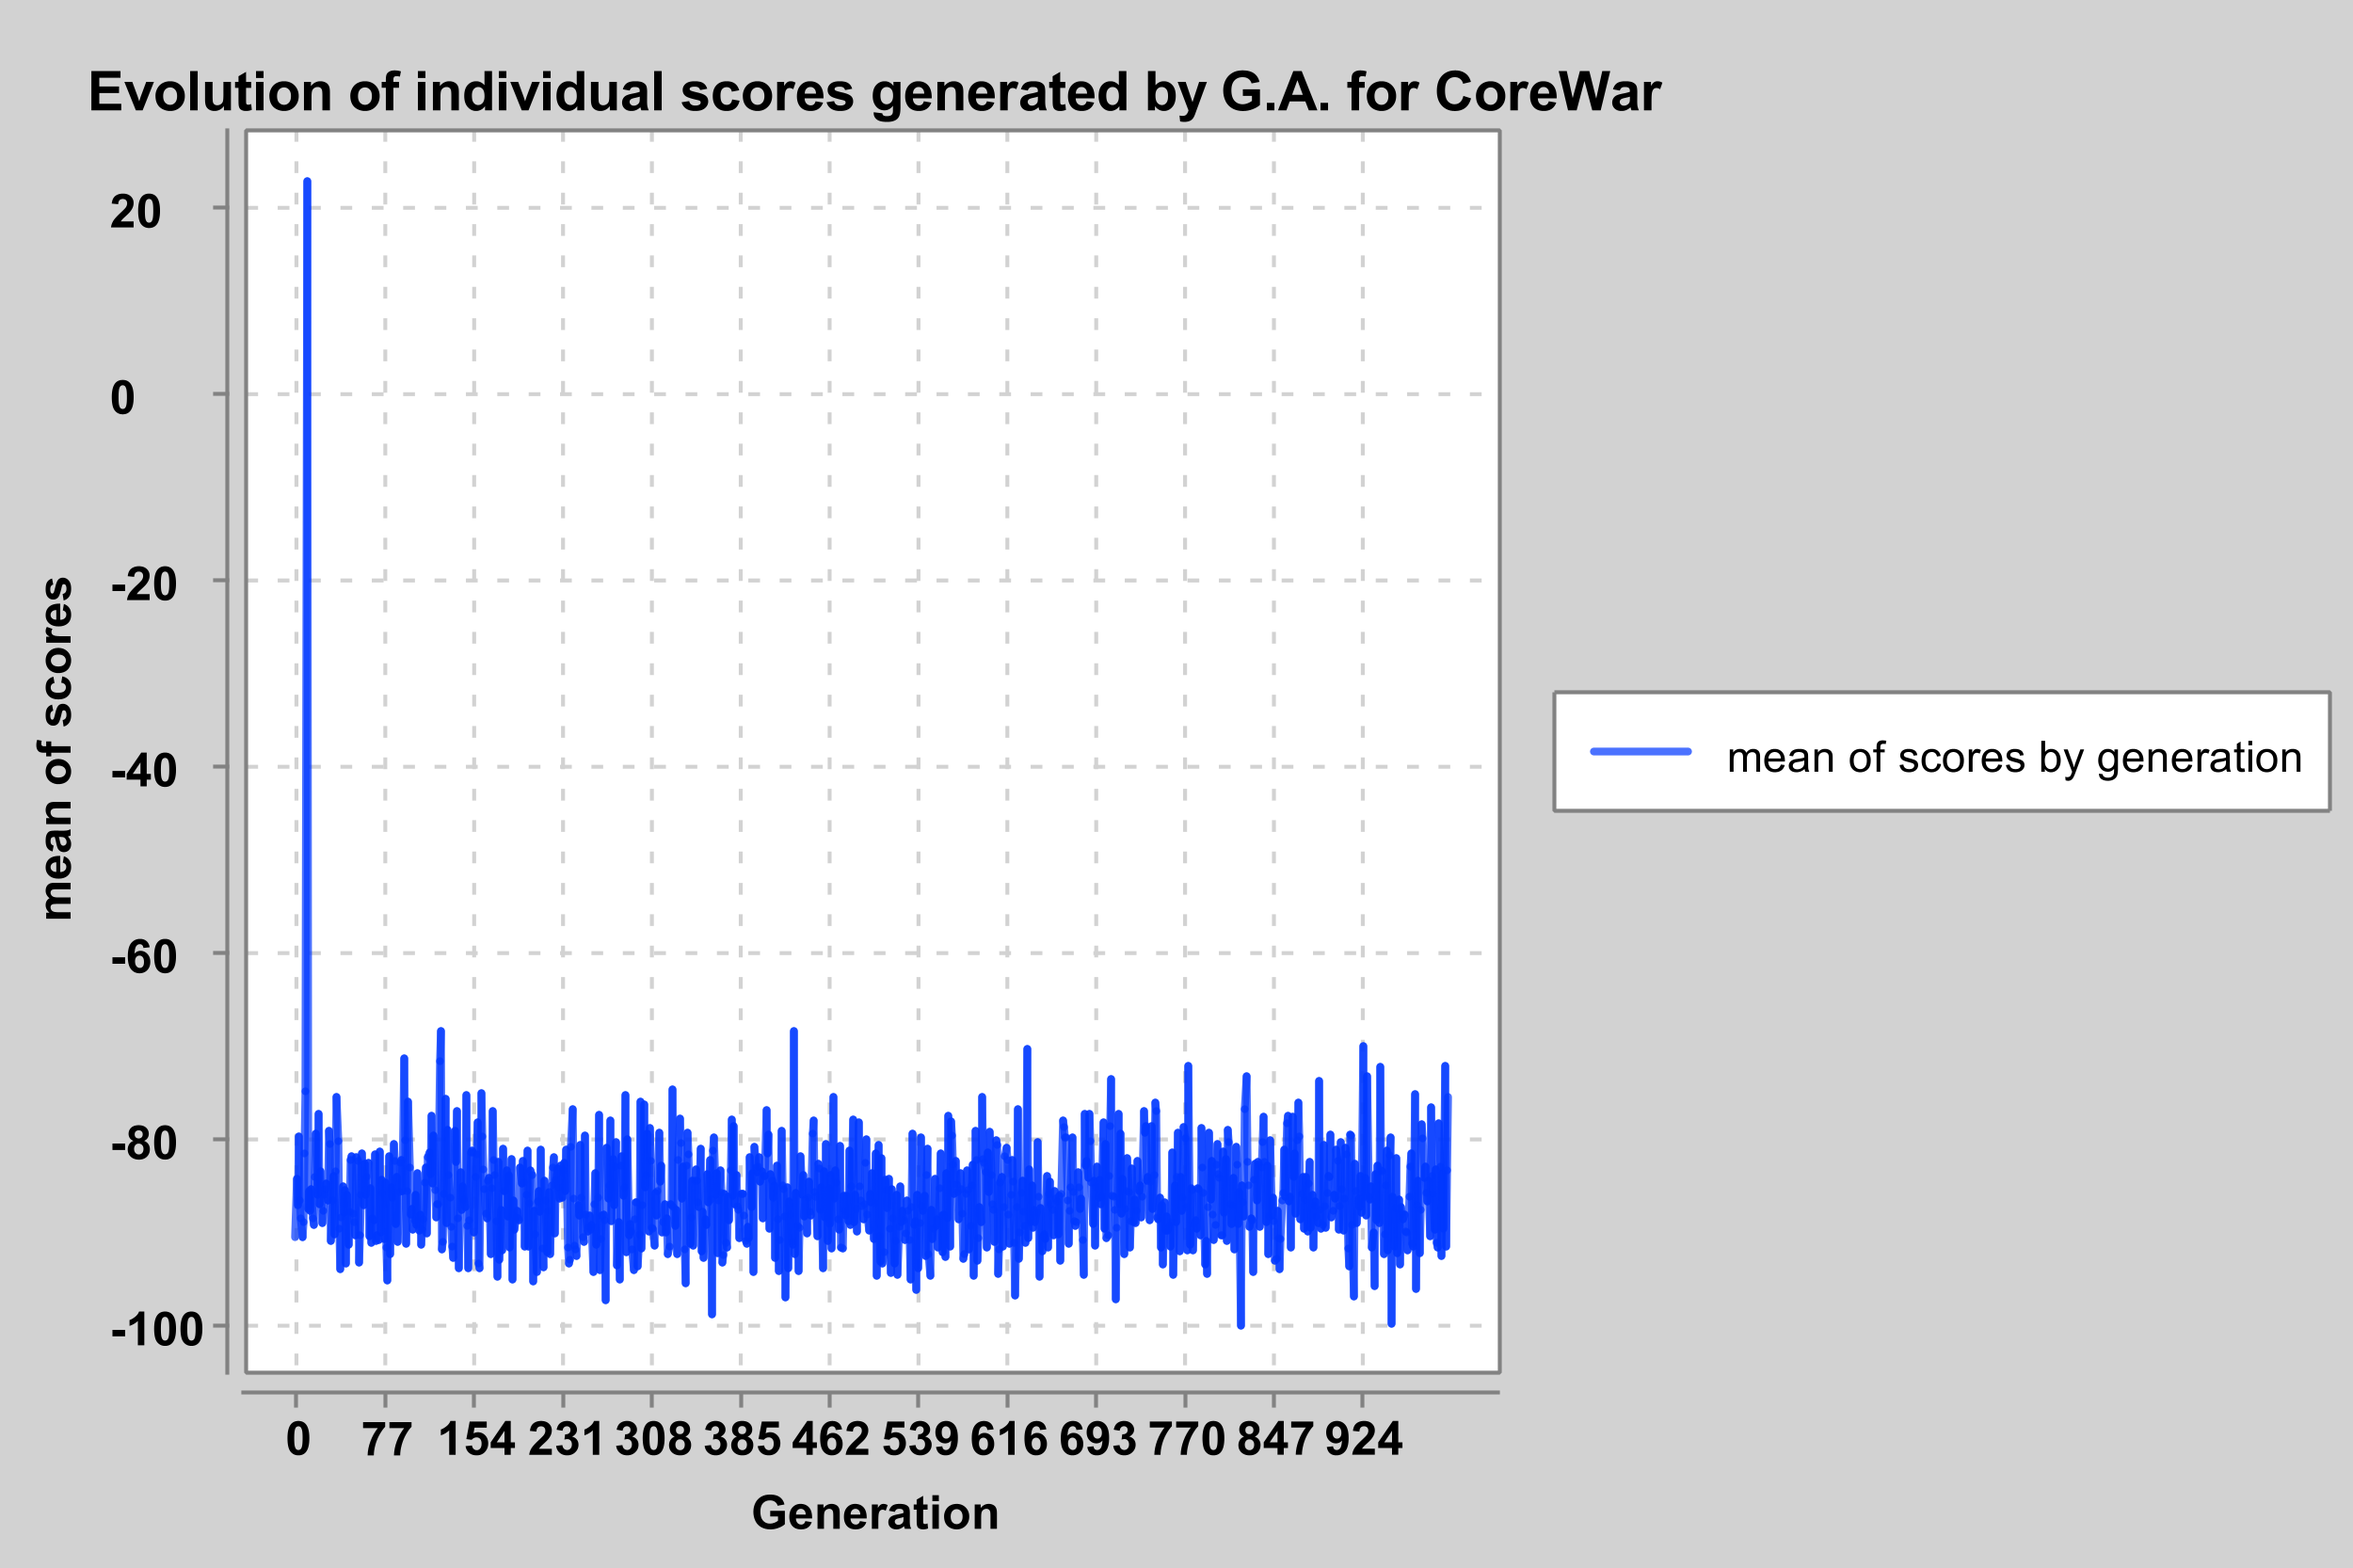
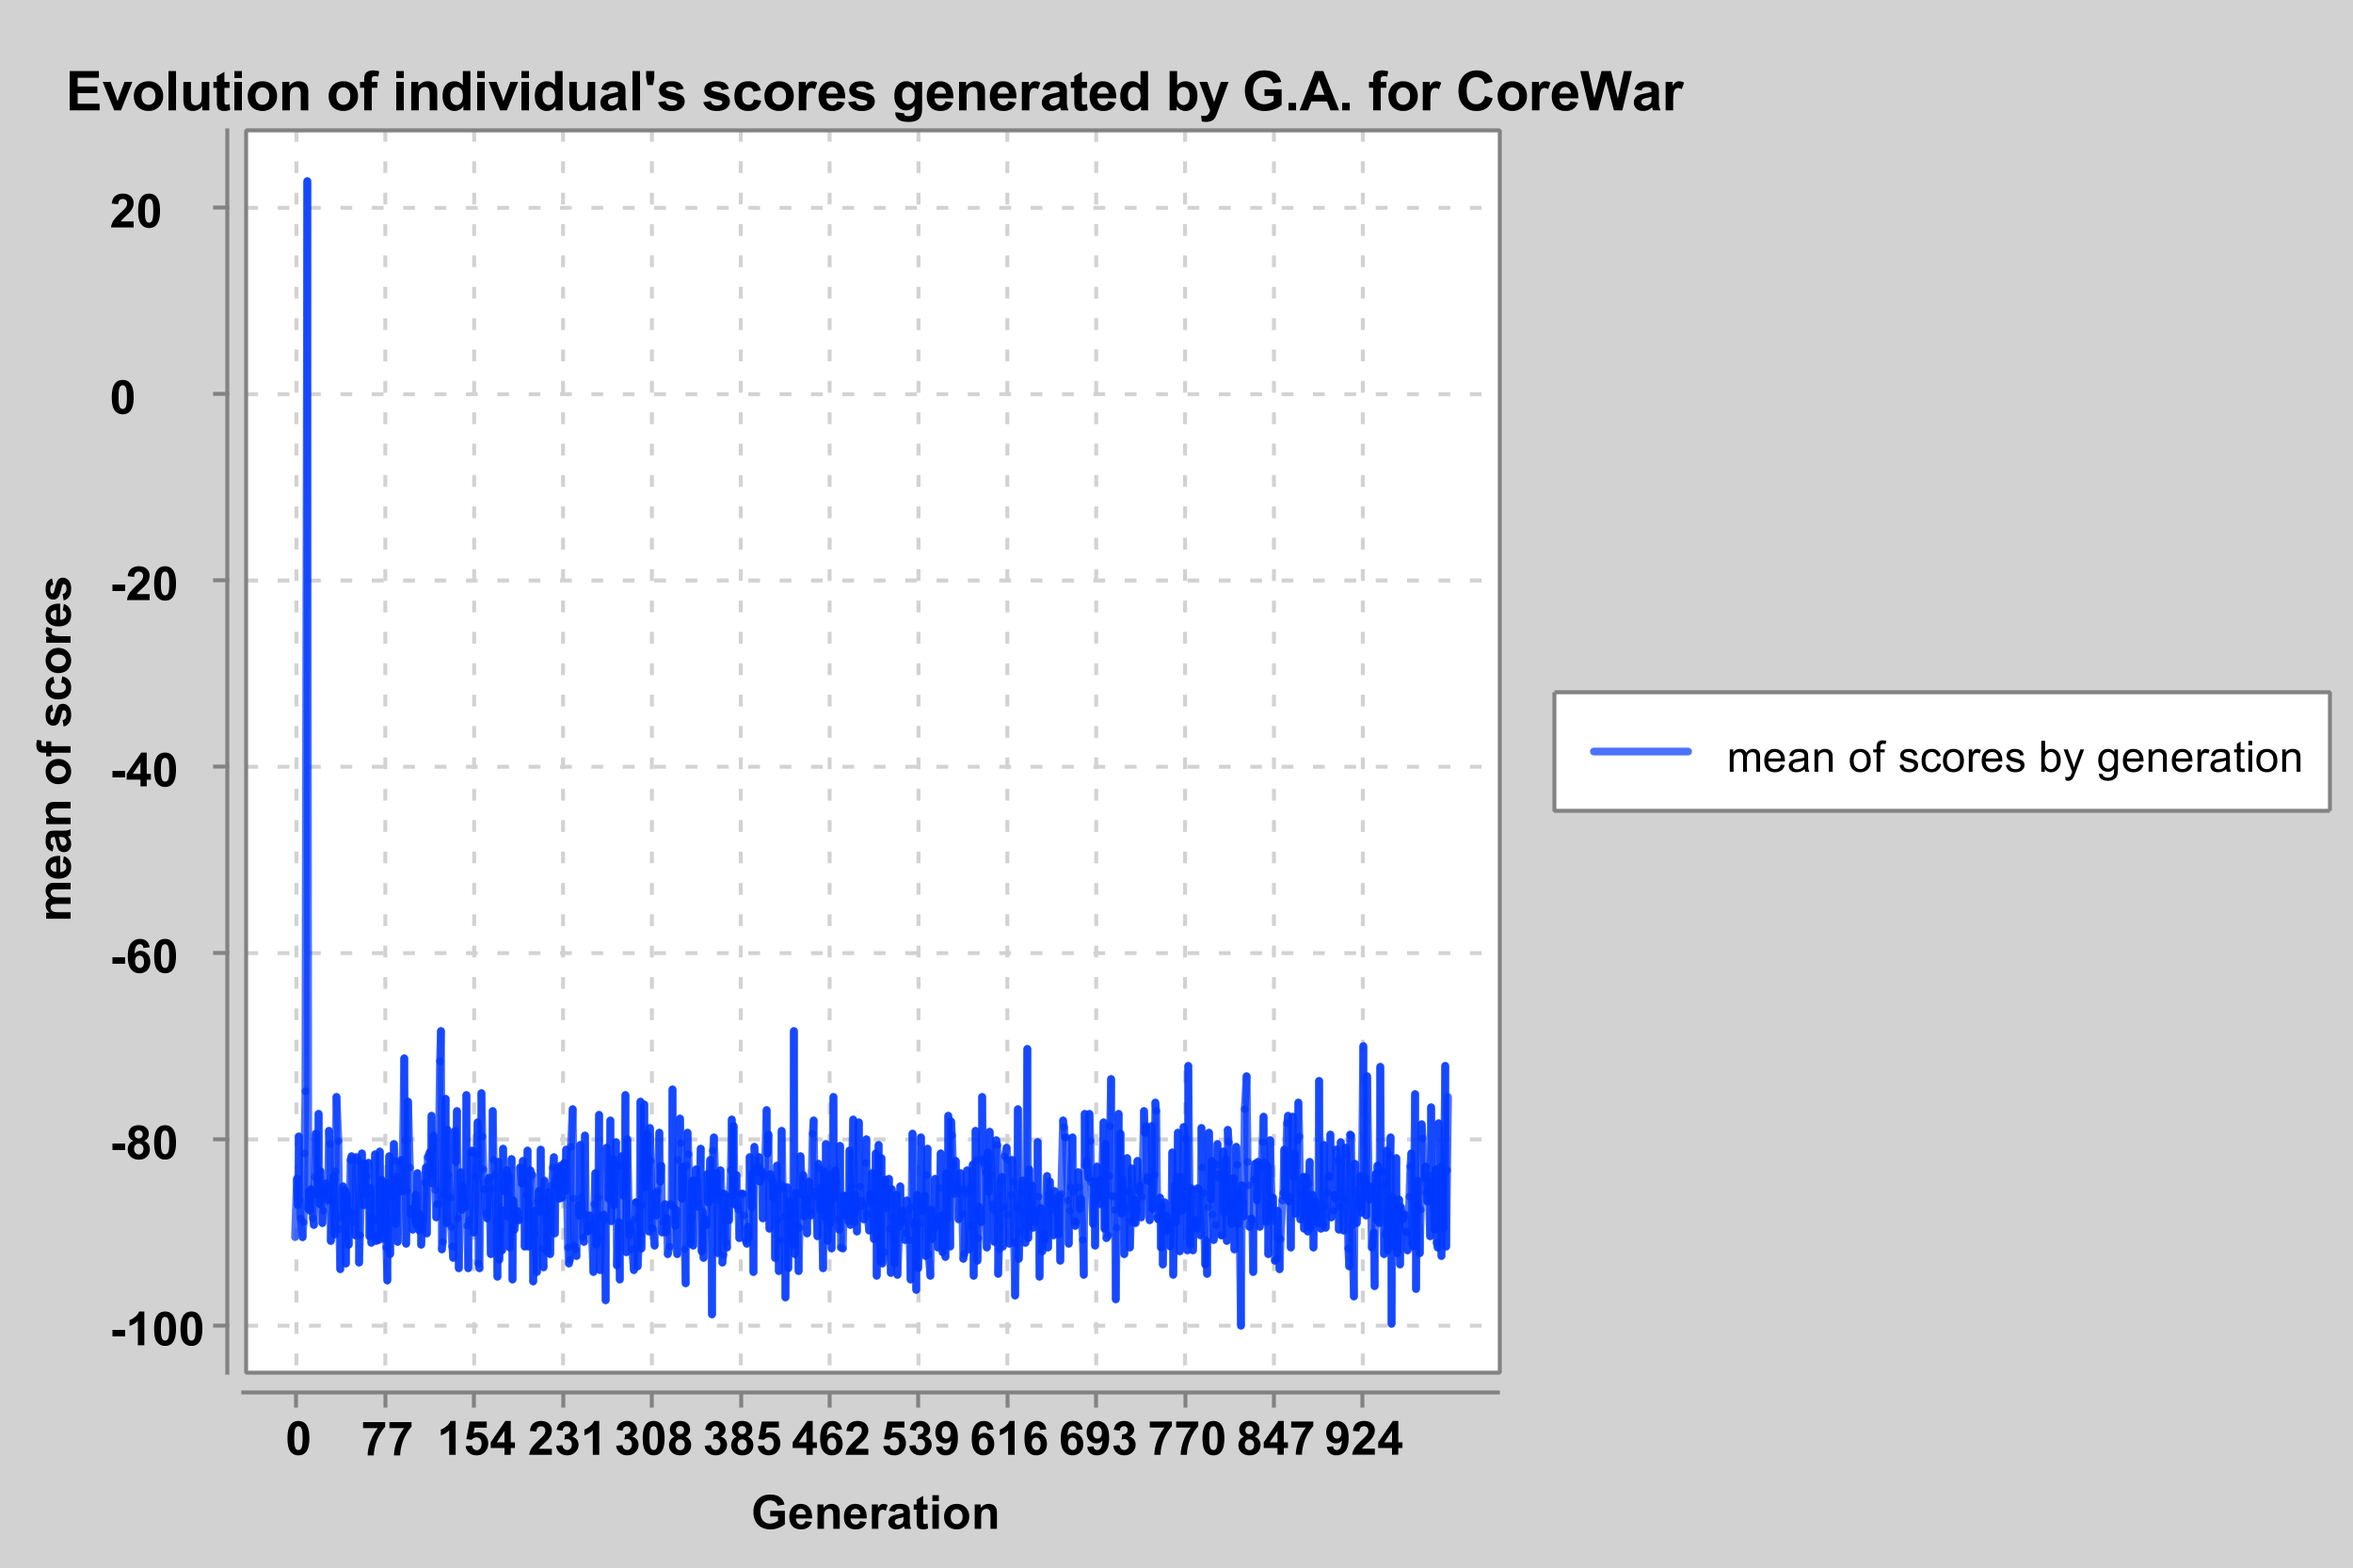
Change Scoring (when loopProtection proc)

Changed region(s): [[0.0312, 0.0312, 0.7176, 0.0936]]

diff --git a/src/coreWar/graph/GraphVisualisation.java b/src/coreWar/graph/GraphVisualisation.java
@@ -15,6 +15,7 @@ import coreWar.trainingManager.TrainingImporter;
 public class GraphVisualisation {
     public static void main(String[] args) throws IOException {
         List<List<Integer>> scores = TrainingImporter.importScores();
+        System.out.println(scores.get(0));
         List<Integer> xData = new ArrayList<Integer>();
         List<Double> yData = new ArrayList<Double>();
         for (int i = 0; i < scores.size(); i++) {
@@ -24,7 +25,7 @@ public class GraphVisualisation {
         System.out.println(scores.size());
 
         // Create Chart
-        XYChart chart = QuickChart.getChart("Evolution of individual scores generated by G.A. for CoreWar", "Generation", "mean of scores", "mean of scores by generation",xData, yData);
+        XYChart chart = QuickChart.getChart("Evolution of individual's scores generated by G.A. for CoreWar", "Generation", "mean of scores", "mean of scores by generation",xData, yData);
 
         // Show it
         //new SwingWrapper(chart).displayChart();
@@ -32,6 +33,20 @@ public class GraphVisualisation {
         // Save it
         BitmapEncoder.saveBitmapWithDPI(chart, String.format("./graphOfScoreFor%dGen", scores.size()), BitmapFormat.PNG, 300);
 
+
+        List<Double> yData2 = new ArrayList<Double>();
+        for (int i = 0; i < scores.size(); i++) {
+            yData2.add(Double.valueOf(calculateMax(scores.get(i))));
+        }
+
+        // Create Chart
+        XYChart chart2 = QuickChart.getChart("Evolution of the winner's scores generated by G.A. for CoreWar", "Generation", "winner of scores", "winner scores by generation",xData, yData2);
+
+        // Show it
+        //new SwingWrapper(chart2).displayChart();
+
+        // Save it
+        BitmapEncoder.saveBitmapWithDPI(chart2, String.format("./graphOfWinnerScoreFor%dGen", scores.size()), BitmapFormat.PNG, 300);
     }
 
     public static Double calculateAverage(List<Integer> numbers) {
@@ -40,6 +55,15 @@ public class GraphVisualisation {
             sum += number;
         }
         return sum / numbers.size();
+    }
+
+    public static Integer calculateMax(List<Integer> numbers) {
+        Integer max = numbers.get(0);
+        for (Integer number : numbers) {
+            if (max < number)
+            max = number;
+        }
+        return max;
     }
 
 }

diff --git a/src/coreWar/trainingManager/TrainingManager.java b/src/coreWar/trainingManager/TrainingManager.java
@@ -71,14 +71,14 @@ public class TrainingManager {
                 Seed seed2 = seedList.get(virtualMachine.uuid[1]);
                 switch (virtualMachine.getMVP()) {
                     case 1:
-                        if (virtualMachine.tick < minTick) {
+                        if (virtualMachine.tick < minTick || virtualMachine.loopProtectioEnabled) {
                             this.population.addPoint(seed2, -1);
                         } else
                             this.population.addPoint(seed1, 1);
                         break;
                     case 2:
-                        if (virtualMachine.tick < minTick) {
-                            this.population.addPoint(seed2, -1);
+                        if (virtualMachine.tick < minTick || virtualMachine.loopProtectioEnabled) {
+                            this.population.addPoint(seed1, -1);
                         } else
                             this.population.addPoint(seed2, 1);
                         break;
@@ -87,7 +87,7 @@ public class TrainingManager {
                 }
             }
             this.trainingScores.add(new ArrayList<Integer>(this.population.values()));
-            System.out.println("Saving");
+            System.out.println("Saving...");
             this.exportPopulation();
             this.population = new Population(this.individualCount);
         }

diff --git a/src/coreWar/vmcore/virtualMachine/ThreadVm.java b/src/coreWar/vmcore/virtualMachine/ThreadVm.java
@@ -27,7 +27,8 @@ public class ThreadVm extends Thread {
             try {
                 interpretor.ApplyInstruction(nextInst,this.vm);
             } catch (LoopException e) {
-                this.vm.winner = 0;  
+                this.vm.winner = nextInst.getOwner()==1?2:1;
+                this.vm.loopProtectioEnabled = true;
                 break;
             } catch (Exception e) {
                 System.err.println("Error while executing program " + nextInst.getOwner() + " (" + nextInst.toStringDebug() + ")");

diff --git a/src/coreWar/vmcore/virtualMachine/Vm.java b/src/coreWar/vmcore/virtualMachine/Vm.java
@@ -14,6 +14,7 @@ public class Vm {
     public int tick = 0; 
     public int[] uuid;                      // tracçabilité du redcode
     public int[] death = {0,0,0}; 
+    public boolean loopProtectioEnabled = false;
     /* end */
 
     private ProcessQueue callQueue = new ProcessQueue(this); 
